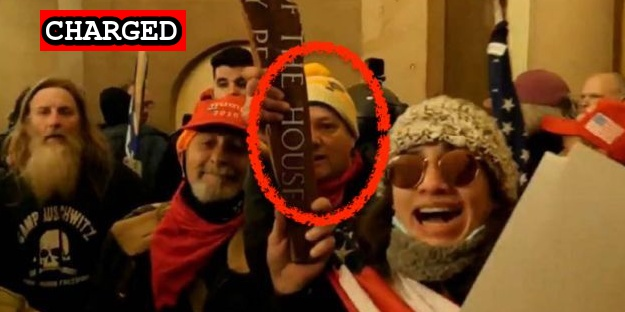
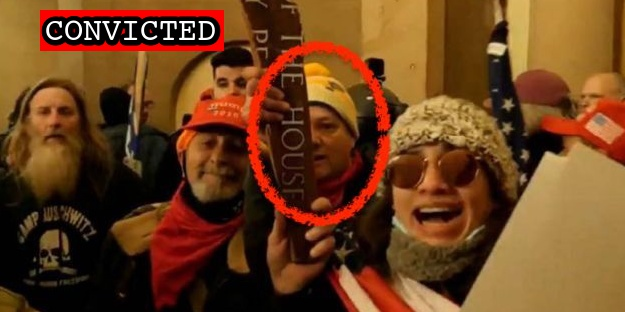
Westover plea

Changed region(s): [[0.0608, 0.0288, 0.3648, 0.1731]]

diff --git a/docs/_suspects/paul-westover.md b/docs/_suspects/paul-westover.md
@@ -4,16 +4,16 @@ lastName: Westover
 hashtag: PaulWestover
 aka:
 residence: Missouri
-status: Charged
+status: Convicted
 date: 2021-02-04
 charged: 2021-02-04
 indicted:
-convicted:
+convicted: 2021-12-06
 sentenced:
 dismissed:
 deceased:
 plea_hearing: 2021-12-06
-sentencing:
+sentencing: 2022-02-16
 age: 52
 occupation: Technical Recruiter
 affiliations:
@@ -34,9 +34,14 @@ published: true
 caseNumber: 1:21-mj-174
 videos:
 charges:
+  - code: 18 USC § 5104(e)(2)(G)
+    title: Parading, demonstrating or picketing in a Capitol building
+    url: https://www.law.cornell.edu/uscode/text/40/5104
+    felony: false
 sentence:
 ---
 
 - [News Report](https://www.stltoday.com/news/local/crime-and-courts/st-louis-county-man-accused-of-role-in-capitol-riot-released-from-jail/article_6b5119e8-6368-5621-bfe0-8da222eb185c.html)
 - [Self Incrimination (Video)](https://twitter.com/violetscrawley/status/1350219274317660161)
 - [Statement of Facts](https://www.justice.gov/usao-dc/case-multi-defendant/file/1365721/download)
+- [Information](https://ecf.dcd.uscourts.gov/doc1/04518916050)
